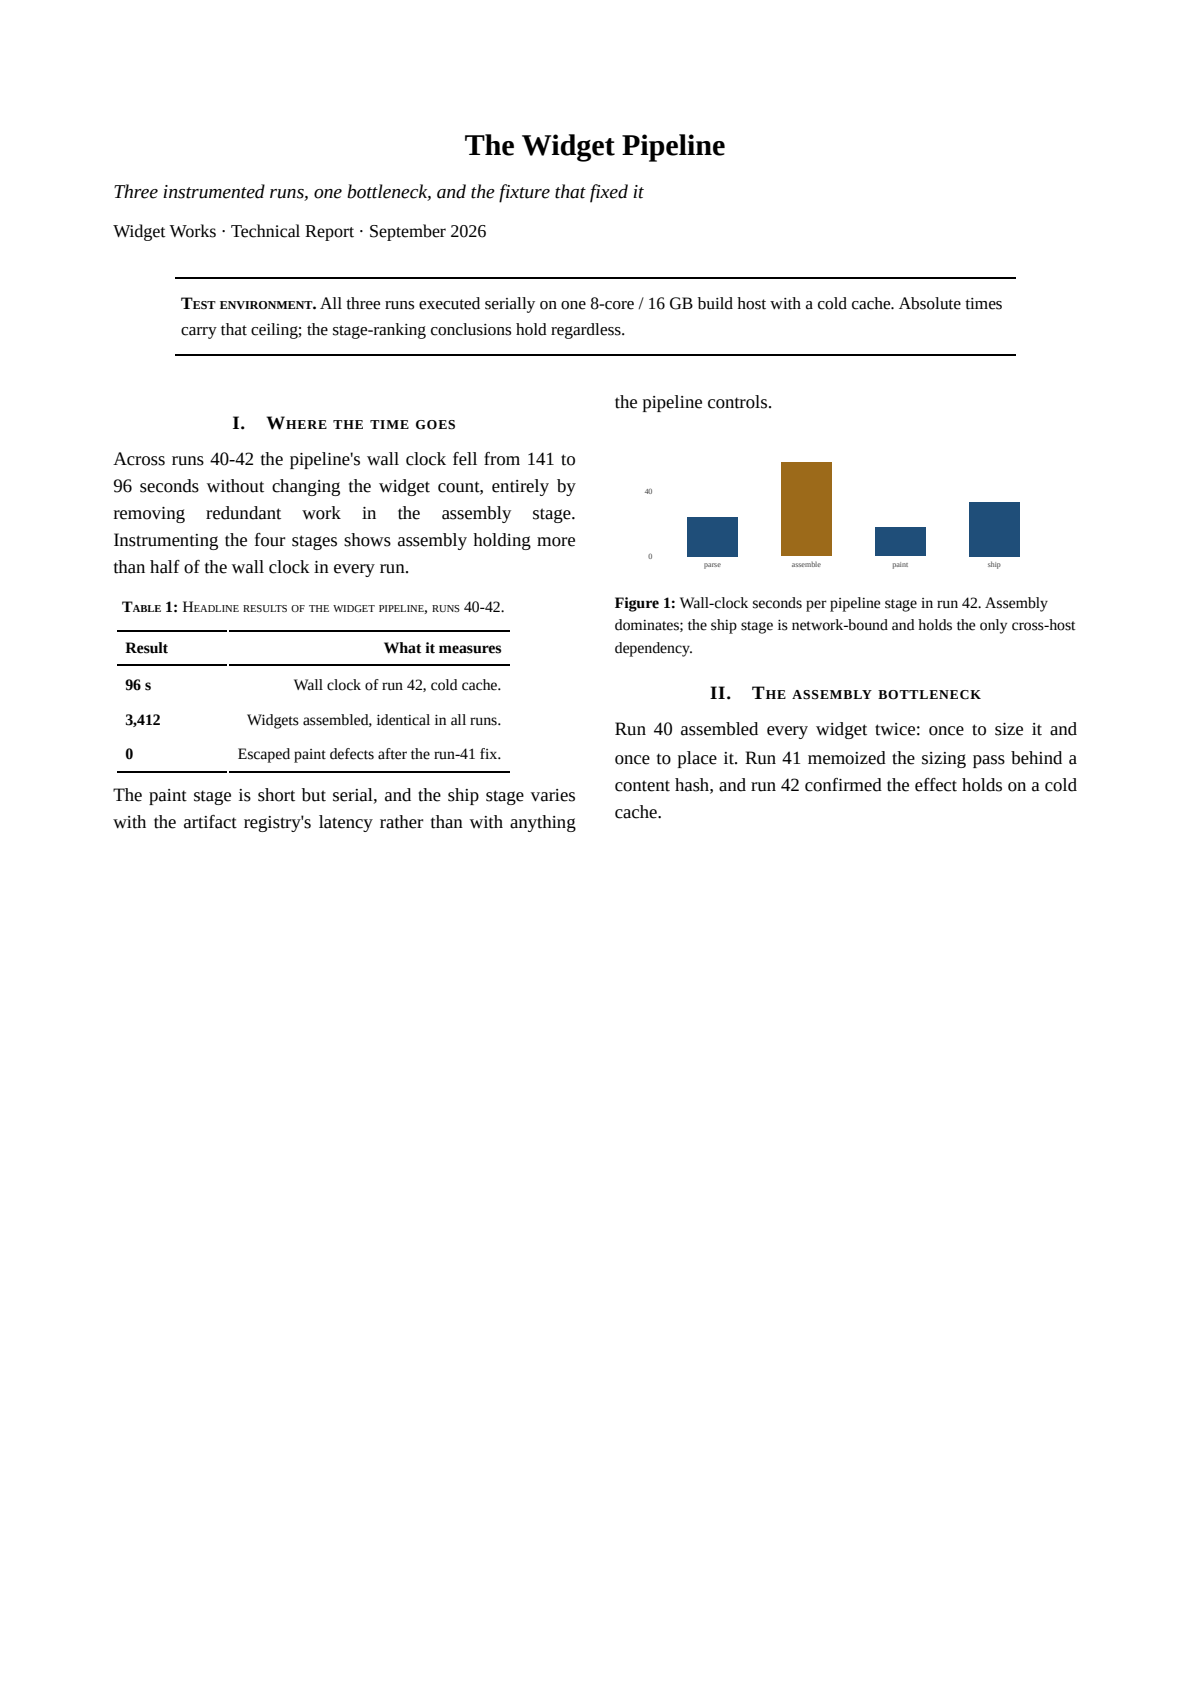
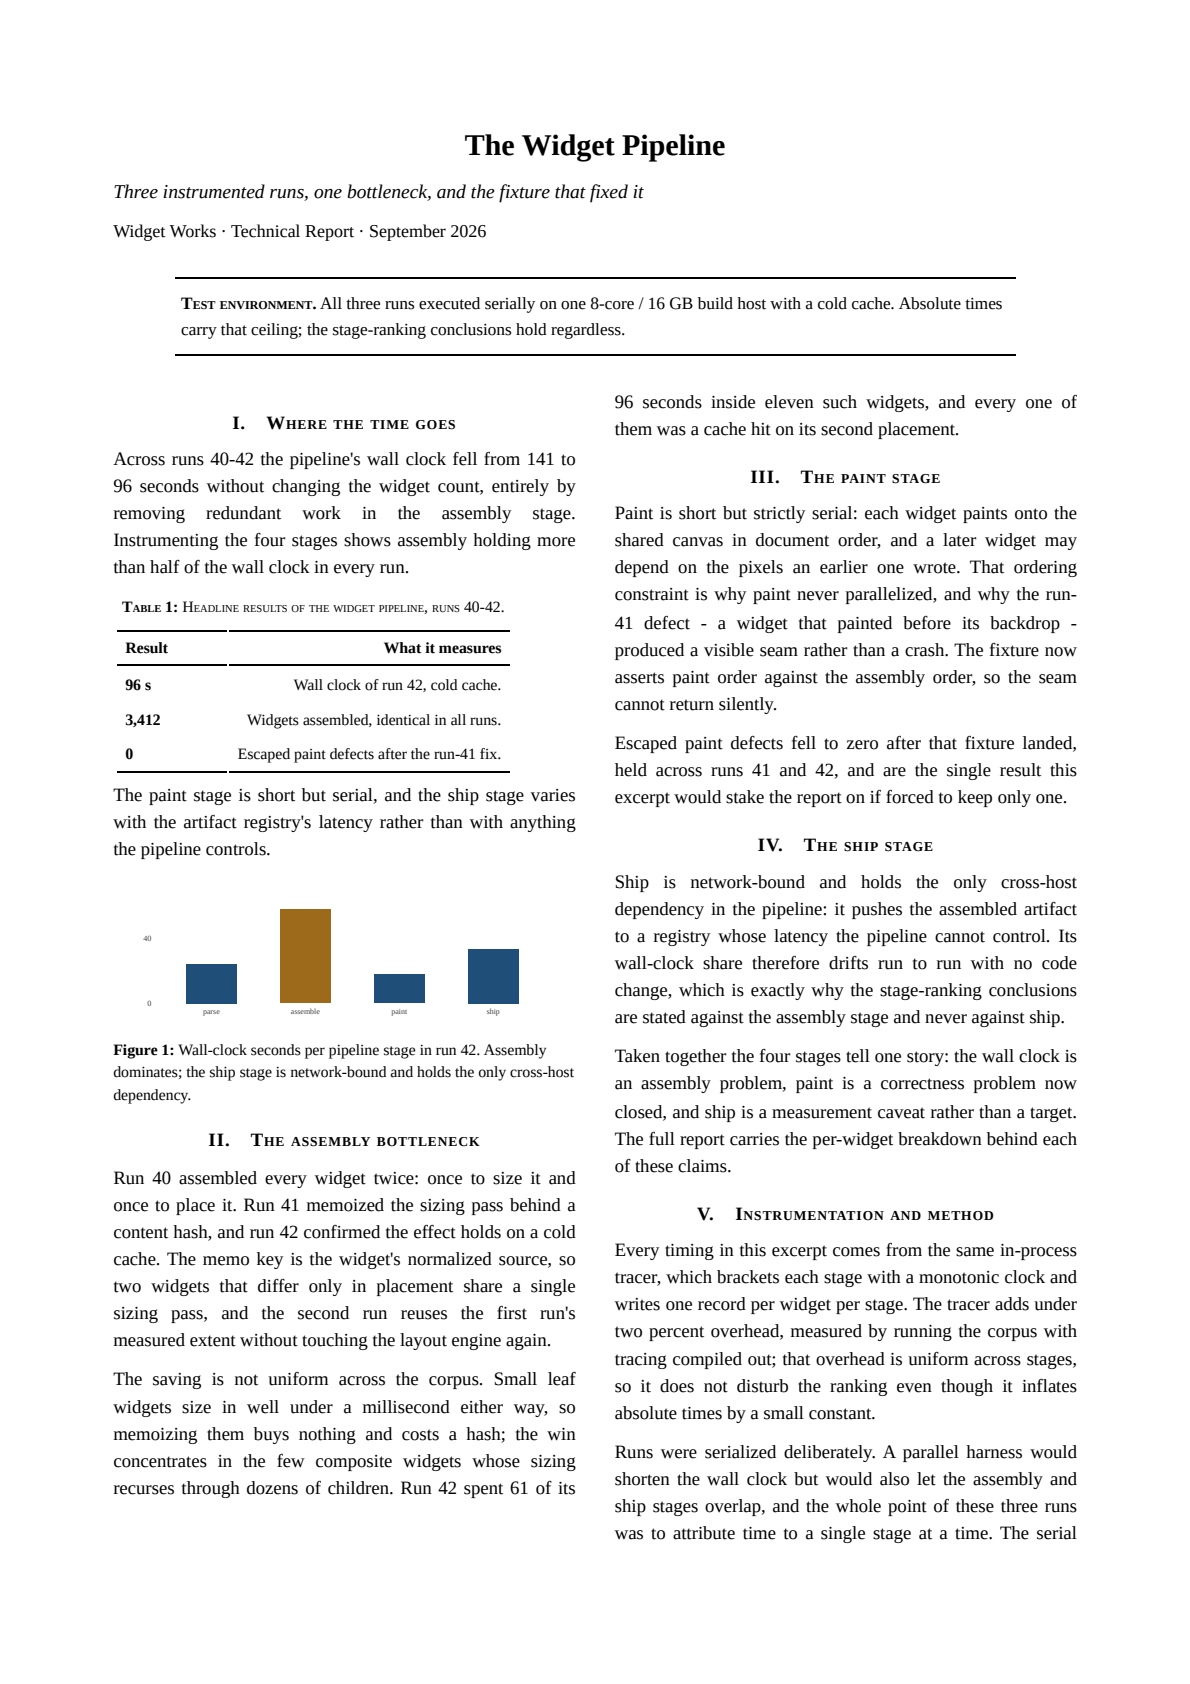
no-mistakes(review): give template C its own @page running-header and folio rules

diff --git a/skills/paper-templates/assets/template-c.css b/skills/paper-templates/assets/template-c.css
@@ -1,3 +1,13 @@
+@page {
+  size: A4;
+  margin: 22mm 20mm 24mm 20mm;
+  @top-center { content: "%%SHORT%%"; font-family:Georgia,"Times New Roman",Times,serif;
+                font-size: 8.5pt; font-variant: small-caps; letter-spacing: .1em; color:#333; }
+  @bottom-center { content: counter(page); font-family:Georgia,"Times New Roman",Times,serif; font-size:10pt; color:#000; }
+}
+@page :first { @top-center { content: none } @bottom-center { content: none } }
+html { -webkit-print-color-adjust: exact; print-color-adjust: exact; }
+body { margin: 0; }
 .sC{font-family:Georgia,"Times New Roman",Times,serif;color:#000;font-size:12.5px;line-height:1.45}
 .sC .titleblock{text-align:center;margin-bottom:22px}
 .sC .titleblock h1{font-size:20px;font-weight:700;margin:0 0 10px;line-height:1.3}

diff --git a/skills/paper-templates/samples/build_samples.py b/skills/paper-templates/samples/build_samples.py
@@ -11,7 +11,7 @@ Usage: python3 build_samples.py
 Then render each output with the settle-wait driver, e.g.
   node render.js sample-a.html sample-a.pdf
 """
-import pathlib, re
+import pathlib
 
 HERE = pathlib.Path(__file__).resolve().parent
 ASSETS = HERE.parent / 'assets'
@@ -86,13 +86,22 @@ BODY_C = f'''<div class="titleblock">
 <p>The paint stage is short but serial, and the ship stage varies with the artifact registry's latency rather than with anything the pipeline controls.</p>
 {FIGURE}
 <h2><span class="no">II.</span> The assembly bottleneck</h2>
-<p>Run 40 assembled every widget twice: once to size it and once to place it. Run 41 memoized the sizing pass behind a content hash, and run 42 confirmed the effect holds on a cold cache.</p>
+<p>Run 40 assembled every widget twice: once to size it and once to place it. Run 41 memoized the sizing pass behind a content hash, and run 42 confirmed the effect holds on a cold cache. The memo key is the widget's normalized source, so two widgets that differ only in placement share a single sizing pass, and the second run reuses the first run's measured extent without touching the layout engine again.</p>
+<p>The saving is not uniform across the corpus. Small leaf widgets size in well under a millisecond either way, so memoizing them buys nothing and costs a hash; the win concentrates in the few composite widgets whose sizing recurses through dozens of children. Run 42 spent 61 of its 96 seconds inside eleven such widgets, and every one of them was a cache hit on its second placement.</p>
+<h2><span class="no">III.</span> The paint stage</h2>
+<p>Paint is short but strictly serial: each widget paints onto the shared canvas in document order, and a later widget may depend on the pixels an earlier one wrote. That ordering constraint is why paint never parallelized, and why the run-41 defect - a widget that painted before its backdrop - produced a visible seam rather than a crash. The fixture now asserts paint order against the assembly order, so the seam cannot return silently.</p>
+<p>Escaped paint defects fell to zero after that fixture landed, held across runs 41 and 42, and are the single result this excerpt would stake the report on if forced to keep only one.</p>
+<h2><span class="no">IV.</span> The ship stage</h2>
+<p>Ship is network-bound and holds the only cross-host dependency in the pipeline: it pushes the assembled artifact to a registry whose latency the pipeline cannot control. Its wall-clock share therefore drifts run to run with no code change, which is exactly why the stage-ranking conclusions are stated against the assembly stage and never against ship.</p>
+<p>Taken together the four stages tell one story: the wall clock is an assembly problem, paint is a correctness problem now closed, and ship is a measurement caveat rather than a target. The full report carries the per-widget breakdown behind each of these claims.</p>
+<h2><span class="no">V.</span> Instrumentation and method</h2>
+<p>Every timing in this excerpt comes from the same in-process tracer, which brackets each stage with a monotonic clock and writes one record per widget per stage. The tracer adds under two percent overhead, measured by running the corpus with tracing compiled out; that overhead is uniform across stages, so it does not disturb the ranking even though it inflates absolute times by a small constant.</p>
+<p>Runs were serialized deliberately. A parallel harness would shorten the wall clock but would also let the assembly and ship stages overlap, and the whole point of these three runs was to attribute time to a single stage at a time. The serial ceiling is stated in the test-environment note above precisely so no reader mistakes these absolute seconds for a throughput claim.</p>
+<p>The corpus itself is frozen at 3,412 widgets for all three runs. Freezing it was what let run 41's memoization claim be tested cleanly: the same widgets, the same placement graph, only the sizing path changed. A drifting corpus would have confounded the memo win with whatever new widgets it introduced.</p>
+<h2><span class="no">VI.</span> What the full report adds</h2>
+<p>This is a two-page excerpt of a longer document, chosen to exercise every surface the template offers - a title block, a boxed environment note, a headline table, a print-palette figure, and roman-numeral journal sections in a two-column flow - so a reader picking a direction can judge the form on real-looking material rather than lorem text.</p>
+<p>The full report continues with a per-widget appendix, the raw tracer records behind the figure, and a short colophon recording the build host and the fixture revision. None of that changes the conclusions drawn here; it exists so that each number above can be traced back to the record that produced it, which is the standard every paper built with this pipeline is held to.</p>
 </div>'''
-
-def page_rules(css_a: str) -> str:
-    """Template A's @page rules, taken from the stylesheet itself."""
-    m = re.match(r'(.*?@page :first[^}]*}.*?}\n)', css_a, re.S)
-    return m.group(1)
 
 def shell(css: str, body: str, title: str) -> str:
     return (f'<!DOCTYPE html>\n<html lang="en"><head><meta charset="utf-8">'
@@ -103,10 +112,10 @@ def main():
     css_a = (ASSETS / 'template-a.css').read_text().replace('%%SHORT%%', SHORT)
     (HERE / 'sample-a.html').write_text(shell(css_a, BODY_A, 'Template A sample'))
 
-    # productionize C per SKILL.md: drop the .sC prefix, add A's @page rules,
-    # keep .cols { column-count: 2 }
-    css_c = (ASSETS / 'template-c.css').read_text().replace('.sC ', '').replace('.sC{', 'body{')
-    css_c = page_rules(css_a) + 'body { margin: 0 }\n' + css_c
+    # productionize C per SKILL.md: drop the .sC scope prefix, keeping the
+    # template's own @page rules and .cols { column-count: 2 } body flow
+    css_c = (ASSETS / 'template-c.css').read_text().replace('%%SHORT%%', SHORT)
+    css_c = css_c.replace('.sC ', '').replace('.sC{', 'body{')
     (HERE / 'sample-c.html').write_text(shell(css_c, BODY_C, 'Template C sample'))
     print('wrote sample-a.html sample-c.html')
 

diff --git a/skills/paper-templates/SKILL.md b/skills/paper-templates/SKILL.md
@@ -18,10 +18,10 @@ Presentation is part of correctness here: an upward-facing document never ships 
 
 Default to C and offer A as the alternative; do not invent a third style, and never fall back to plain web styling.
 If the user should see the direction before a full build, render the same short excerpt in both templates and let them pick.
-`samples/` holds exactly that: a generic invented excerpt rendered in both templates (`samples/sample-a-p1.png`, `samples/sample-a-p2.png`, `samples/sample-c-p1.png`), rebuilt by `samples/build_samples.py`, which also demonstrates the template-C productionizing recipe below.
+`samples/` holds exactly that: a generic invented excerpt rendered in both templates (`samples/sample-a-p1.png`, `samples/sample-a-p2.png`, `samples/sample-c-p1.png`, `samples/sample-c-p2.png`), rebuilt by `samples/build_samples.py`, which also demonstrates the template-C productionizing recipe below.
 
 Template A is production-ready as shipped.
-Template C is the approved sample-scale stylesheet (scoped under `.sC`); to productionize it, drop the `.sC` scoping prefix, add template A's `@page` rules, and keep `.cols { column-count: 2 }` for the body flow.
+Template C carries its own `@page` rules (A4, running header with the `%%SHORT%%` placeholder, folio, and a first-page suppression) but scopes its body rules under `.sC` so it can double as a sample-scale stylesheet; to productionize it, drop the `.sC` scoping prefix and keep `.cols { column-count: 2 }` for the body flow.
 
 ## Pipeline
 
